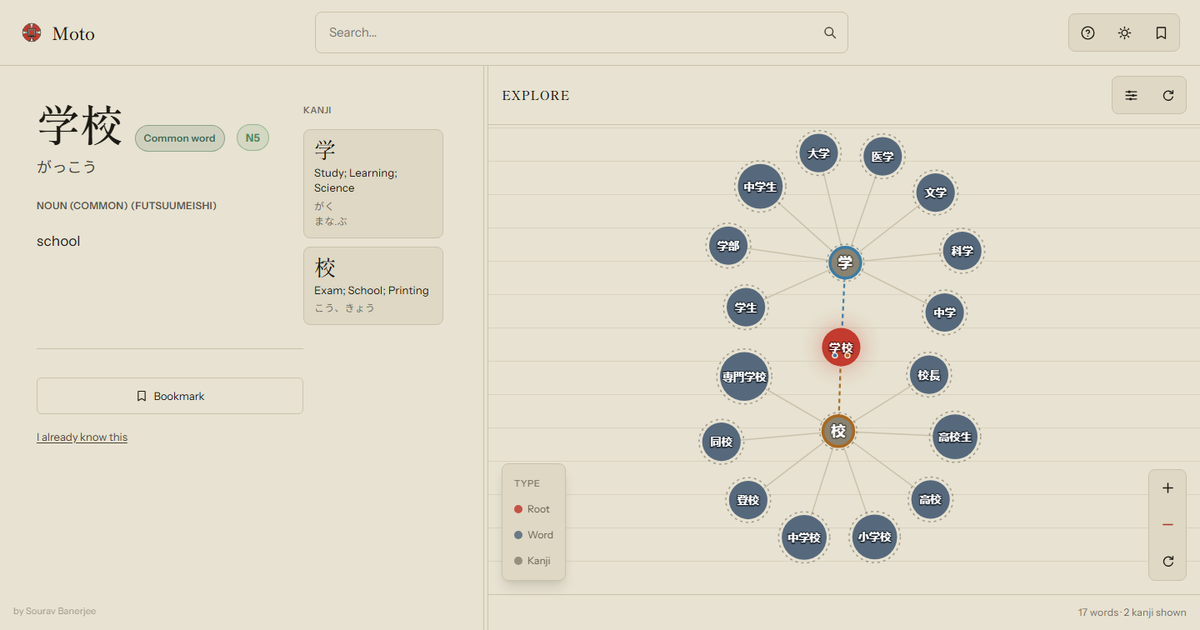
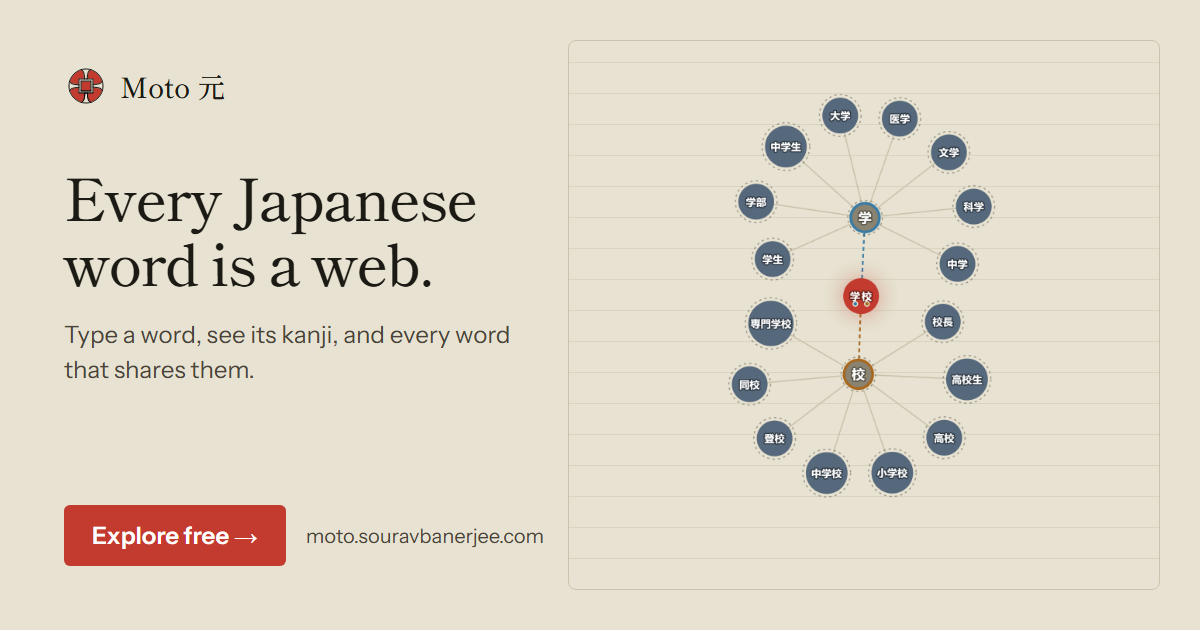
feat(seo): link-preview card with headline + CTA; shorter description
Preview checker flagged no headline/CTA in og:image and a 143-char
og:description (~125 shows on mobile). The card now pairs 'Every
Japanese word is a web.' + an Explore free button with the 学校 graph;
descriptions are 114 chars, with a test holding them to 125.
Image URL gets ?v=2 so unfurl caches refetch.

diff --git a/index.html b/index.html
@@ -27,9 +27,9 @@
     <meta property="og:title" content="Moto (元) — explore Japanese vocabulary as a web of kanji" />
     <meta
       property="og:description"
-      content="Start from any Japanese word, see the kanji it's built from, and every other word that shares them. Bookmark what you find and send it to Anki."
+      content="Type any Japanese word and watch it branch into its kanji and every word that shares them. Free, with Anki export."
     />
-    <meta property="og:image" content="https://moto.souravbanerjee.com/og-image.png" />
+    <meta property="og:image" content="https://moto.souravbanerjee.com/og-image.png?v=2" />
     <meta property="og:image:width" content="1200" />
     <meta property="og:image:height" content="630" />
     <meta property="og:image:alt" content="Moto's word graph grown out from 学校 (school): its kanji 学 and 校, and the words that share them." />
@@ -39,9 +39,9 @@
     <meta name="twitter:title" content="Moto (元) — explore Japanese vocabulary as a web of kanji" />
     <meta
       name="twitter:description"
-      content="Start from any Japanese word, see the kanji it's built from, and every other word that shares them. Bookmark what you find and send it to Anki."
+      content="Type any Japanese word and watch it branch into its kanji and every word that shares them. Free, with Anki export."
     />
-    <meta name="twitter:image" content="https://moto.souravbanerjee.com/og-image.png" />
+    <meta name="twitter:image" content="https://moto.souravbanerjee.com/og-image.png?v=2" />
     <meta name="twitter:image:alt" content="Moto's word graph grown out from 学校 (school): its kanji 学 and 校, and the words that share them." />
 
     <script type="application/ld+json">

diff --git a/src/seo.test.js b/src/seo.test.js
@@ -26,6 +26,11 @@ describe("index.html crawler/link-preview tags", () => {
     expect(meta("property", "og:image:height")).toBe("630");
   });
 
+  it("keeps social descriptions short enough not to truncate on mobile", () => {
+    expect(meta("property", "og:description").length).toBeLessThanOrEqual(125);
+    expect(meta("name", "twitter:description").length).toBeLessThanOrEqual(125);
+  });
+
   it("has Twitter card tags", () => {
     expect(meta("name", "twitter:card")).toBe("summary_large_image");
     expect(meta("name", "twitter:image")).toBe(meta("property", "og:image"));
